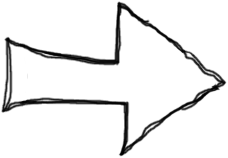
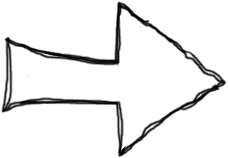
Arrow directions done

Changed region(s): [[0.4912, 0.6329, 0.5833, 1.0]]

diff --git a/Demo/arrow.js b/Demo/arrow.js
@@ -14,6 +14,8 @@ class Arrow
     this.opacity = 0;
     this.endCount = 0;
     this.direction = direction;
+    this.imgCount = 0;
+    this.imgIn = true;
     this.img.addEventListener('load', function() {
       console.log('Image loaded: ' + this.toString);
       that.loaded = true;
@@ -27,12 +29,24 @@ class Arrow
    * Draws an image after it is loaded.
    */
   drawImage() {
+    if(this.imgCount > 30){
+      this.imgIn = true;
+    }
+    if(this.imgCount <= 0){
+      this.imgIn = false;
+    }
+    if(this.imgIn == false){
+      this.imgCount = this.imgCount + 1;
+    }
+    if(this.imgIn == true){
+      this.imgCount = this.imgCount - 1;
+    }
     var ctx = document.getElementById("mycanvas").getContext("2d");
     if (this.loaded === true) {
       // draw the image
       if(this.direction == "right"){
         //ctx.drawImage(this.img,this.imageX -224,this.imageY -82);
-        ctx.drawImage(this.img,this.imageX - 224,this.imageY - 82);
+        ctx.drawImage(this.img,this.imageX - (224 + this.imgCount),this.imageY - 82);
         }
       if(this.direction == "down"){
         //ctx.drawImage(this.img,this.imageX -224,this.imageY -82);
@@ -43,10 +57,36 @@ class Arrow
         var angleInRadians = 1.5708;
         ctx.translate(x, y);
         ctx.rotate(angleInRadians);
-        ctx.drawImage(this.img, -width / 2 + (this.imageY -82), -height / 2 - (this.imageX - 224), width, height);
+        ctx.drawImage(this.img, -width / 2 + (this.imageY -112 - this.imgCount), -height / 2 - (this.imageX), width, height);
         ctx.rotate(-angleInRadians);
         ctx.translate(-x, -y);
           }
+      if(this.direction == "left"){
+        //ctx.drawImage(this.img,this.imageX -224,this.imageY -82);
+        var x = ctx.width / 2;
+        var y = ctx.height / 2;
+        var width = this.img.width;
+        var height = this.img.height;
+        var angleInRadians = 3.1416;
+        ctx.translate(x, y);
+        ctx.rotate(angleInRadians);
+        ctx.drawImage(this.img, -width / 2 - (this.imageX + 112 + this.imgCount), -height / 2 - (this.imageY), width, height);
+        ctx.rotate(-angleInRadians);
+        ctx.translate(-x, -y);
+          }
+          if(this.direction == "up"){
+            //ctx.drawImage(this.img,this.imageX -224,this.imageY -82);
+            var x = ctx.width / 2;
+            var y = ctx.height / 2;
+            var width = this.img.width;
+            var height = this.img.height;
+            var angleInRadians = -1.5708;
+            ctx.translate(x, y);
+            ctx.rotate(angleInRadians);
+            ctx.drawImage(this.img, -width / 2 - (this.imageY + 112 + this.imgCount), -height / 2 + (this.imageX), width, height);
+            ctx.rotate(-angleInRadians);
+            ctx.translate(-x, -y);
+              }
       }
 
       //ctx.drawImage(this.img, 200, 0, 89, 143, 0, 0, 500, 200);

diff --git a/Demo/game.js b/Demo/game.js
@@ -10,7 +10,10 @@ class Game {
     this.achievement = new Achievement("Tutorial Complete");
     this.tutorialText = new tutorialText("Helloooooooooooooooooooooooo",100,100);
     this.diamondAchievement = new DiamondAchievement("Diamond Got");
-    this.arrow = new Arrow(500,500,"right");
+    this.arrow = new Arrow(800,500,"right");
+    this.arrow2 = new Arrow(800,500,"down");
+    this.arrow3 = new Arrow(800,500,"left");
+    this.arrow4 = new Arrow(800,500,"up");
   }
   init() {
   }
@@ -25,6 +28,9 @@ class Game {
     this.tutorialText.drawBackground();
     this.diamondAchievement.drawImage();
     this.arrow.drawImage();
+    this.arrow2.drawImage();
+    this.arrow3.drawImage();
+    this.arrow4.drawImage();
     //this.achievement.drawImage();
   }
 }
